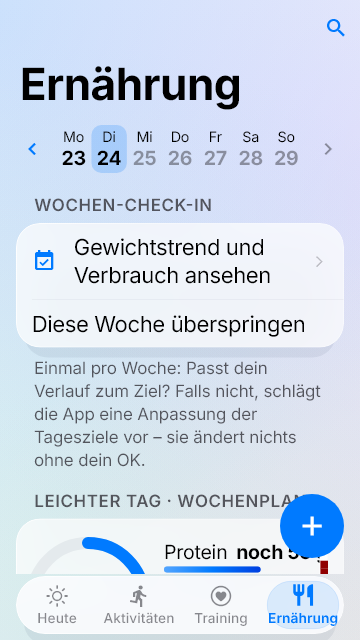
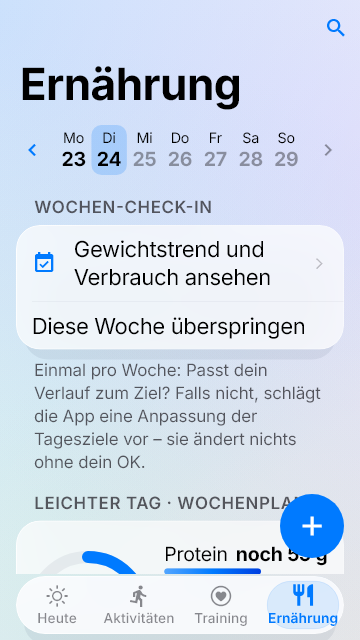
fix(ui): Überläufe bei großer Schrift und auf kleinem Android
- Makro-Zeilen in Ernährung umbrechen statt überzulaufen (Wrap statt Row + Spacer).
- Wochenstreifen in Ernährung mit Mindest- statt fester Höhe.
- „Sicherung einspielen“ der Einrichtung unter dem Einführungstext statt in der
  Kopfzeile (lief bei großer Schrift um 62–95 px über).
- Regressionstest auf 360 dp mit Textskalierung 1,3; Prüfstand-Bilder neu,
  layoutfehler.md jetzt leer.

Roast B-28.

diff --git a/test/features/layout_overflow_test.dart b/test/features/layout_overflow_test.dart
@@ -1,0 +1,47 @@
+// Kleines Android-Gerät (360 × 640 dp) mit großer Schrift (1,3): Ernährung und Einrichtung laufen nicht über
+// (Roast B-28, gefunden mit dem Screenshot-Prüfstand).
+import 'package:aironludi/services/providers.dart';
+import 'package:aironludi/ui/liquid.dart';
+import 'package:coach_core/coach_core.dart';
+import 'package:flutter/material.dart';
+import 'package:flutter_riverpod/flutter_riverpod.dart';
+import 'package:flutter_test/flutter_test.dart';
+
+import '../app_test.dart' show app;
+
+void _smallDeviceLargeText(WidgetTester tester) {
+  tester.view.physicalSize = const Size(720, 1280);
+  tester.view.devicePixelRatio = 2;
+  tester.platformDispatcher.textScaleFactorTestValue = 1.3;
+  addTearDown(() {
+    tester.view.reset();
+    tester.platformDispatcher.clearAllTestValues();
+  });
+}
+
+void main() {
+  testWidgets('Ernährung: Makro-Zeilen passen auf 360 dp bei großer Schrift', (tester) async {
+    _smallDeviceLargeText(tester);
+    await tester.pumpWidget(await tester.runAsync(() => app(onboarded: true)) as Widget);
+    await tester.pumpAndSettle();
+    final container = ProviderScope.containerOf(tester.element(find.byType(LiquidTabBar)));
+    container.read(coachSettingsProvider).nutrition = NutritionSettings()
+      ..weightKilograms = 74
+      ..heightCentimeters = 180
+      ..age = 34
+      ..isFemale = false;
+    await tester.tap(find.descendant(of: find.byType(LiquidTabBar), matching: find.text('Ernährung')));
+    await tester.runAsync(() => Future<void>.delayed(const Duration(milliseconds: 200)));
+    await tester.pumpAndSettle();
+    expect(find.text('Kohlenhydrate'), findsWidgets);
+    expect(tester.takeException(), isNull);
+  });
+
+  testWidgets('Einrichtung: „Sicherung einspielen“ läuft bei großer Schrift nicht über', (tester) async {
+    _smallDeviceLargeText(tester);
+    await tester.pumpWidget(await tester.runAsync(() => app(onboarded: false)) as Widget);
+    await tester.pumpAndSettle();
+    expect(find.text('Sicherung einspielen'), findsOneWidget);
+    expect(tester.takeException(), isNull);
+  });
+}

diff --git a/lib/features/onboarding/onboarding_screen.dart b/lib/features/onboarding/onboarding_screen.dart
@@ -279,13 +279,6 @@ class _OnboardingScreenState extends ConsumerState<OnboardingScreen> {
                 tooltip: 'Schließen',
                 icon: const Icon(Icons.close),
                 onPressed: () => Navigator.of(context).pop(),
-              )
-            else if (_step == OnboardingStep.sports)
-              // Nach einer Neuinstallation: Daten aus der Datensicherung zurückholen statt neu einzurichten.
-              TextButton(
-                onPressed: () =>
-                    Navigator.of(context).push(MaterialPageRoute<void>(builder: (_) => const BackupScreen())),
-                child: const Text('Sicherung einspielen'),
               ),
           ],
         ),
@@ -314,6 +307,17 @@ class _OnboardingScreenState extends ConsumerState<OnboardingScreen> {
     padding: const EdgeInsets.all(16),
     children: [
       _intro('Wähle alles, was du regelmäßig machst oder machen möchtest. Die App richtet sich danach.'),
+      // Nach einer Neuinstallation: Daten aus der Datensicherung zurückholen statt neu einzurichten. Steht hier statt
+      // in der Kopfzeile, damit es bei großer Schrift nicht überläuft.
+      if (!widget.isEditing)
+        Align(
+          alignment: AlignmentDirectional.centerStart,
+          child: TextButton.icon(
+            icon: const Icon(Icons.settings_backup_restore),
+            label: const Text('Sicherung einspielen'),
+            onPressed: () => Navigator.of(context).push(MaterialPageRoute<void>(builder: (_) => const BackupScreen())),
+          ),
+        ),
       for (final sport in TrainingSport.values)
         Padding(
           padding: const EdgeInsets.only(bottom: 12),

diff --git a/lib/features/nutrition/nutrition_screen.dart b/lib/features/nutrition/nutrition_screen.dart
@@ -986,7 +986,9 @@ class _DayStripState extends State<_DayStrip> {
                     borderRadius: BorderRadius.circular(10),
                     onTap: future ? null : () => widget.onSelect(day),
                     child: Container(
-                      height: 48,
+                      // Mindesthöhe statt fester Höhe: wächst mit großer Schrift mit.
+                      constraints: const BoxConstraints(minHeight: 48),
+                      padding: const EdgeInsets.symmetric(vertical: 4),
                       decoration: BoxDecoration(
                         color: day == widget.selected ? scheme.primary.withValues(alpha: 0.2) : null,
                         borderRadius: BorderRadius.circular(10),
@@ -1245,10 +1247,12 @@ class _MacroBar extends StatelessWidget {
     child: Column(
       crossAxisAlignment: CrossAxisAlignment.start,
       children: [
-        Row(
+        // Bei wenig Breite (kleines Gerät, große Schrift) rutscht der Rest in die nächste Zeile statt überzulaufen.
+        Wrap(
+          alignment: WrapAlignment.spaceBetween,
+          spacing: 8,
           children: [
             Text(line.nutrient.label),
-            const Spacer(),
             Text(
               NutritionBudget.remainingText(line),
               style: TextStyle(fontWeight: FontWeight.bold, color: line.isOver ? Colors.red : null),

diff --git a/docs/roast/screenshots/layoutfehler.md b/docs/roast/screenshots/layoutfehler.md
@@ -2,39 +2,3 @@
 
 Vom Prüfstand erzeugt (`test/screenshots`). Je Bild die erste Meldung des Frameworks.
 
-- `android-klein/dunkel/04-ernaehrung`: A RenderFlex overflowed by 11 pixels on the right.
-- `android-klein/dunkel/50-ernaehrung-woche`: A RenderFlex overflowed by 11 pixels on the right.
-- `android-klein/dunkel/51-fuel-planner`: A RenderFlex overflowed by 11 pixels on the right.
-- `android-klein/dunkel/52-gewicht`: A RenderFlex overflowed by 11 pixels on the right.
-- `android-klein/dunkel/53-rezeptideen`: A RenderFlex overflowed by 11 pixels on the right.
-- `android-klein/dunkel/54-eigene-rezepte`: A RenderFlex overflowed by 11 pixels on the right.
-- `android-klein/dunkel/55-erfassen`: A RenderFlex overflowed by 11 pixels on the right.
-- `android-klein/dunkel/56-ernaehrung-uebersicht`: A RenderFlex overflowed by 11 pixels on the right.
-- `android-klein/grossschrift/00-einrichtung`: A RenderFlex overflowed by 95 pixels on the right.
-- `android-klein/grossschrift/04-ernaehrung`: A RenderFlex overflowed by 65 pixels on the right.
-- `android-klein/grossschrift/50-ernaehrung-woche`: A RenderFlex overflowed by 65 pixels on the right.
-- `android-klein/grossschrift/51-fuel-planner`: A RenderFlex overflowed by 65 pixels on the right.
-- `android-klein/grossschrift/52-gewicht`: A RenderFlex overflowed by 65 pixels on the right.
-- `android-klein/grossschrift/53-rezeptideen`: A RenderFlex overflowed by 65 pixels on the right.
-- `android-klein/grossschrift/54-eigene-rezepte`: A RenderFlex overflowed by 65 pixels on the right.
-- `android-klein/grossschrift/55-erfassen`: A RenderFlex overflowed by 65 pixels on the right.
-- `android-klein/grossschrift/56-ernaehrung-uebersicht`: A RenderFlex overflowed by 65 pixels on the right.
-- `android-klein/hell/04-ernaehrung`: A RenderFlex overflowed by 11 pixels on the right.
-- `android-klein/hell/50-ernaehrung-woche`: A RenderFlex overflowed by 11 pixels on the right.
-- `android-klein/hell/51-fuel-planner`: A RenderFlex overflowed by 11 pixels on the right.
-- `android-klein/hell/52-gewicht`: A RenderFlex overflowed by 11 pixels on the right.
-- `android-klein/hell/53-rezeptideen`: A RenderFlex overflowed by 11 pixels on the right.
-- `android-klein/hell/54-eigene-rezepte`: A RenderFlex overflowed by 11 pixels on the right.
-- `android-klein/hell/55-erfassen`: A RenderFlex overflowed by 11 pixels on the right.
-- `android-klein/hell/56-ernaehrung-uebersicht`: A RenderFlex overflowed by 11 pixels on the right.
-- `iphone15/grossschrift/00-einrichtung`: A RenderFlex overflowed by 62 pixels on the right.
-- `iphone15/grossschrift/04-ernaehrung`: A RenderFlex overflowed by 32 pixels on the right.
-- `iphone15/grossschrift/50-ernaehrung-woche`: A RenderFlex overflowed by 32 pixels on the right.
-- `iphone15/grossschrift/51-fuel-planner`: A RenderFlex overflowed by 32 pixels on the right.
-- `iphone15/grossschrift/52-gewicht`: A RenderFlex overflowed by 32 pixels on the right.
-- `iphone15/grossschrift/53-rezeptideen`: A RenderFlex overflowed by 32 pixels on the right.
-- `iphone15/grossschrift/54-eigene-rezepte`: A RenderFlex overflowed by 32 pixels on the right.
-- `iphone15/grossschrift/55-erfassen`: A RenderFlex overflowed by 32 pixels on the right.
-- `iphone15/grossschrift/56-ernaehrung-uebersicht`: A RenderFlex overflowed by 32 pixels on the right.
-
-Hinweis: Die Einträge unter `50-…` bis `56-…` stammen aus dem Reiter „Ernährung“ darunter (dieselbe Makro-Zeile, `lib/features/nutrition/nutrition_screen.dart:1248`); es sind zwei Fehlerstellen, nicht 35.

diff --git a/docs/migrationsplan.md b/docs/migrationsplan.md
@@ -447,3 +447,4 @@ Der Umfang (≈ 65 000 Zeilen) passt nicht in eine PR. Vorschlag: je PR ein Teil
 | Später möglich: Android-Widgets mit Glance (Ringe, Balken, Konfiguration), Wiederholungen ± in der Android-Mitteilung | Idee |
 | Update-Hinweis Android (neu, `docs/decisions.md`): Worker `GET /v1/app/android` (neueste Version, Link zur Download-Seite, nur mit Anmeldung), `AppUpdateService` (Prüfung beim Start/Zurückkehren höchstens alle 6 h, Vergleich `versionCode`, „Später“ je Version), Hinweis oben in der App mit „Jetzt laden“ | erledigt |
 | Roast 24.11.2026 (`docs/roast/`), Stufe 1 / PR 1: WHOOP-Anmeldefehler verständlich (`WhoopAuthErrors`, Rücksprung-Seite nennt fehlende Scopes), Anleitung mit Scope `offline` | erledigt |
+| Roast Stufe 1 / PR 2: Überläufe bei großer Schrift und auf kleinem Android behoben (Makro-Zeilen, Wochenstreifen in Ernährung, „Sicherung einspielen“ der Einrichtung), Regressionstest `layout_overflow_test.dart` | erledigt |
